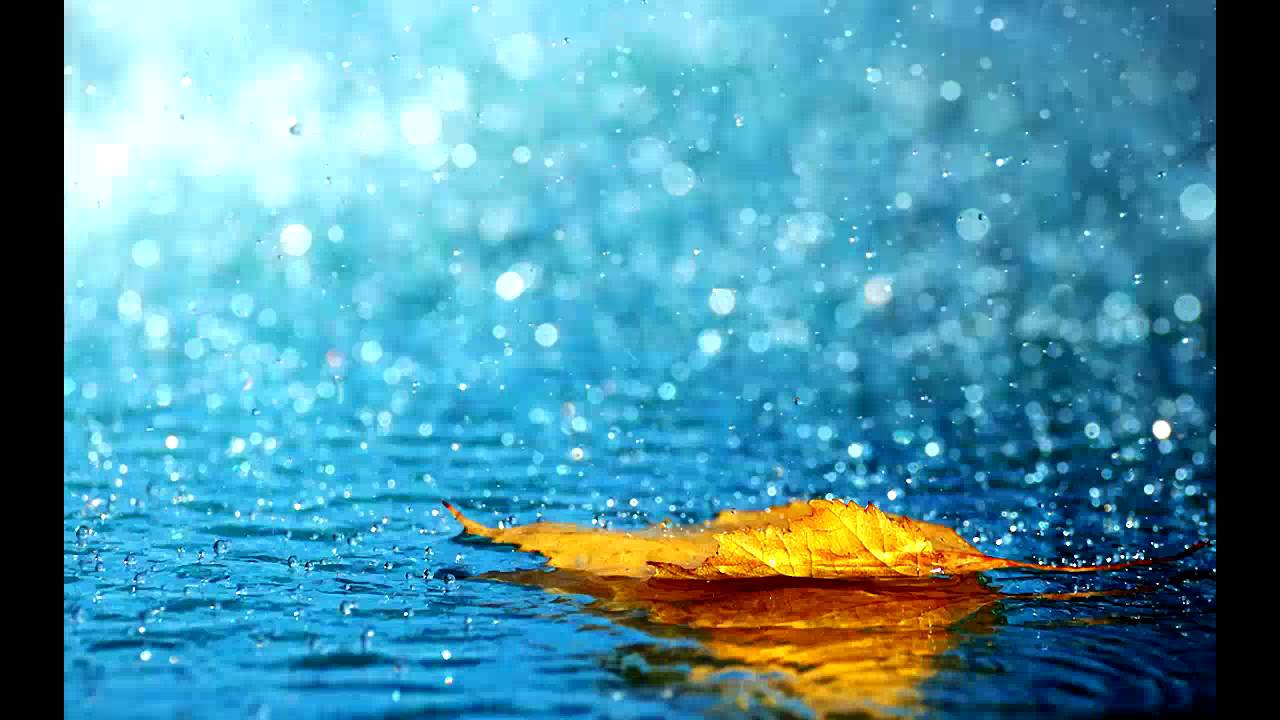
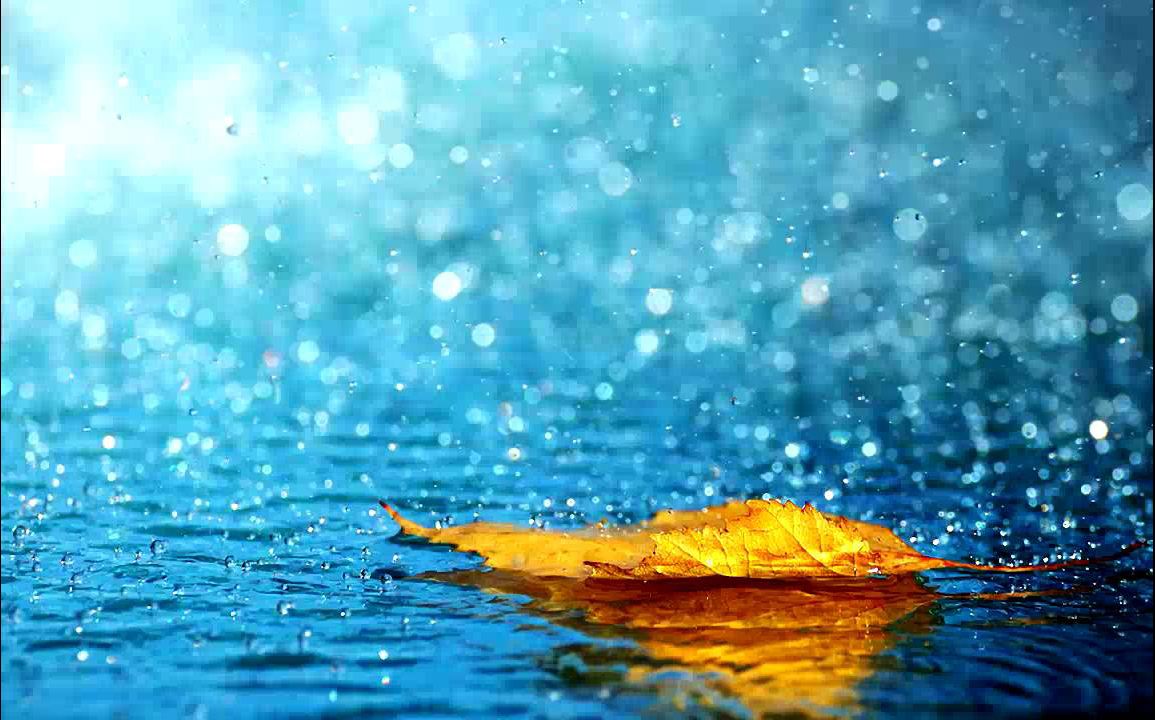
some fix

diff --git a/src/index.html b/src/index.html
@@ -9,56 +9,58 @@
 </head>
 
 <body>
-    <div class="section">
+    <div class="container">
         <div class="row">
+            <div class="wrap  col-md-12">
 
-            <!-- main wrapper -->
-            <div class="wrapper">
 
-                <header>
-                    <!-- header here -->
-                </header>
+                <!-- main wrapper -->
+                <div class="wrapper">
 
-                <!-- wrapper for content -->
-                <div class="content-wrapper">
+                    <header>
+                        <!-- header here -->
+                    </header>
 
-                    <!-- section expamle -->
-                    <section id="main">
-                        <div class="wrapper_example">
-                            <div class="container">
-                                <h1>Webpack</h1>
-                                <!-- <img src="/assets/img/rain.jpg" alt=""> -->
+                    <!-- wrapper for content -->
+                    <div class="content-wrapper">
+
+                        <!-- section expamle -->
+                        <section id="main">
+                            <div class="wrapper_example">
+                                <div class="container">
+                                    <!-- <h1>Webpack</h1> -->
+                                    <!-- <img src="/assets/img/rain.jpg" alt=""> -->
+                                </div>
                             </div>
-                        </div>
-                    </section>
-                    <div class="custom_test">АукцЫон - Пропал</div>
-                    <!-- section expamle 2 -->
-                    <section id="main2">
-                        <div class="wrapper_example--second">
-                            <div class="container">
-                                <div class="row">
-                                    <div class="mydiv col-md-12">
+                        </section>
+                        <!-- <div class="custom_test">АукцЫон - Пропал</div> -->
+                        <!-- section expamle 2 -->
+                        <section id="main2">
+                            <div class="wrapper_example--second">
+                                <div class="container">
+                                    <div class="row">
+                                        <div class="mydiv">
 
-                                        <h1>Example second section</h1>
-                                        <img class="myImg" src="/assets/img/raining.jpg">
+                                            <!-- <h1>Example second section</h1> -->
+                                            <!-- <img class="myImg" src="/assets/img/raining.jpg"> -->
+                                        </div>
                                     </div>
                                 </div>
                             </div>
-                        </div>
-                    </section>
+                        </section>
 
-                    <footer>
-                        <!-- footer here -->
-                    </footer>
+                        <footer>
+                            <!-- footer here -->
+                        </footer>
 
-                    <!-- end content wrapper -->
+                        <!-- end content wrapper -->
+                    </div>
+
+                    <!-- end main wrapper -->
                 </div>
-
-                <!-- end main wrapper -->
             </div>
         </div>
     </div>
-
 
 </body>
 

diff --git a/src/libs/bootstrap/bootstrap.scss b/src/libs/bootstrap/bootstrap.scss
@@ -1,37 +1,37 @@
 @import "~bootstrap/scss/functions";
 @import "~bootstrap/scss/variables";
 @import "~bootstrap/scss/mixins";
-@import "~bootstrap/scss/root";
-@import "~bootstrap/scss/reboot";
-@import "~bootstrap/scss/type";
-@import "~bootstrap/scss/images";
-@import "~bootstrap/scss/code";
+// @import "~bootstrap/scss/root";
+// @import "~bootstrap/scss/reboot";
+// @import "~bootstrap/scss/type";
+// @import "~bootstrap/scss/images";
+// @import "~bootstrap/scss/code";
 @import "~bootstrap/scss/grid";
-@import "~bootstrap/scss/tables";
-@import "~bootstrap/scss/forms";
-@import "~bootstrap/scss/buttons";
-@import "~bootstrap/scss/transitions";
-@import "~bootstrap/scss/dropdown";
-@import "~bootstrap/scss/button-group";
-@import "~bootstrap/scss/input-group";
-@import "~bootstrap/scss/custom-forms";
-@import "~bootstrap/scss/nav";
-@import "~bootstrap/scss/navbar";
-@import "~bootstrap/scss/card";
-@import "~bootstrap/scss/breadcrumb";
-@import "~bootstrap/scss/pagination";
-@import "~bootstrap/scss/badge";
-@import "~bootstrap/scss/jumbotron";
-@import "~bootstrap/scss/alert";
-@import "~bootstrap/scss/progress";
-@import "~bootstrap/scss/media";
-@import "~bootstrap/scss/list-group";
-@import "~bootstrap/scss/close";
-@import "~bootstrap/scss/toasts";
-@import "~bootstrap/scss/modal";
-@import "~bootstrap/scss/tooltip";
-@import "~bootstrap/scss/popover";
-@import "~bootstrap/scss/carousel";
-@import "~bootstrap/scss/spinners";
+// @import "~bootstrap/scss/tables";
+// @import "~bootstrap/scss/forms";
+// @import "~bootstrap/scss/buttons";
+// @import "~bootstrap/scss/transitions";
+// @import "~bootstrap/scss/dropdown";
+// @import "~bootstrap/scss/button-group";
+// @import "~bootstrap/scss/input-group";
+// @import "~bootstrap/scss/custom-forms";
+// @import "~bootstrap/scss/nav";
+// @import "~bootstrap/scss/navbar";
+// @import "~bootstrap/scss/card";
+// @import "~bootstrap/scss/breadcrumb";
+// @import "~bootstrap/scss/pagination";
+// @import "~bootstrap/scss/badge";
+// @import "~bootstrap/scss/jumbotron";
+// @import "~bootstrap/scss/alert";
+// @import "~bootstrap/scss/progress";
+// @import "~bootstrap/scss/media";
+// @import "~bootstrap/scss/list-group";
+// @import "~bootstrap/scss/close";
+// @import "~bootstrap/scss/toasts";
+// @import "~bootstrap/scss/modal";
+// @import "~bootstrap/scss/tooltip";
+// @import "~bootstrap/scss/popover";
+// @import "~bootstrap/scss/carousel";
+// @import "~bootstrap/scss/spinners";
 @import "~bootstrap/scss/utilities";
-@import "~bootstrap/scss/print";
+// @import "~bootstrap/scss/print";

diff --git a/src/index.js b/src/index.js
@@ -4,7 +4,7 @@ import './js/common.js';
 import './sass/main.sass';
 import './libs/bootstrap/bootstrap';
 
-$(document).ready(function() {
-    $('.row').append('<h3 class="title">Hello jQuery!</h3>');
-    $('.title').css('background-color', 'grey').addClass('d-flex col-md-6');
-});
+// $(document).ready(function() {
+//     $('.row').append('<h3 class="title">Hello jQuery!</h3>');
+//     $('.title').css('background-color', 'grey').addClass('d-flex col-md-6');
+// });

diff --git a/src/sass/main.sass b/src/sass/main.sass
@@ -65,12 +65,15 @@ $wdth: 58px
 		&::after
 			border-color: #008dc2
 .mydiv
-	width: 400px
-	height: 350px
-	background-color: #ffff00
-.myImg
-	height: 250px
-	width: auto	
+	// width: auto
+	height: 748px
+	// background-color: #ffff00
+// .myImg
+// 	height: 350px
+// 	width: auto
+.wrap
+	background-image: url('../img/rain-09.jpg')
+	background-size: cover
 
 
 @import "media" // Always at the end 

diff --git a/src/sass/_modules/header.sass b/src/sass/_modules/header.sass
@@ -1,7 +1,7 @@
 // header style
 .custom_test
-	color: blue
-	font: $default-font
-	height: 100px
-	width: 125px
-	background-color: yellowgreen
+	// color: blue
+	// font: $default-font
+	// height: 100px
+	// width: 125px
+	// background-color: yellowgreen

diff --git a/README.md b/README.md
@@ -1,0 +1,1 @@
+TODO: need fill folder scss
